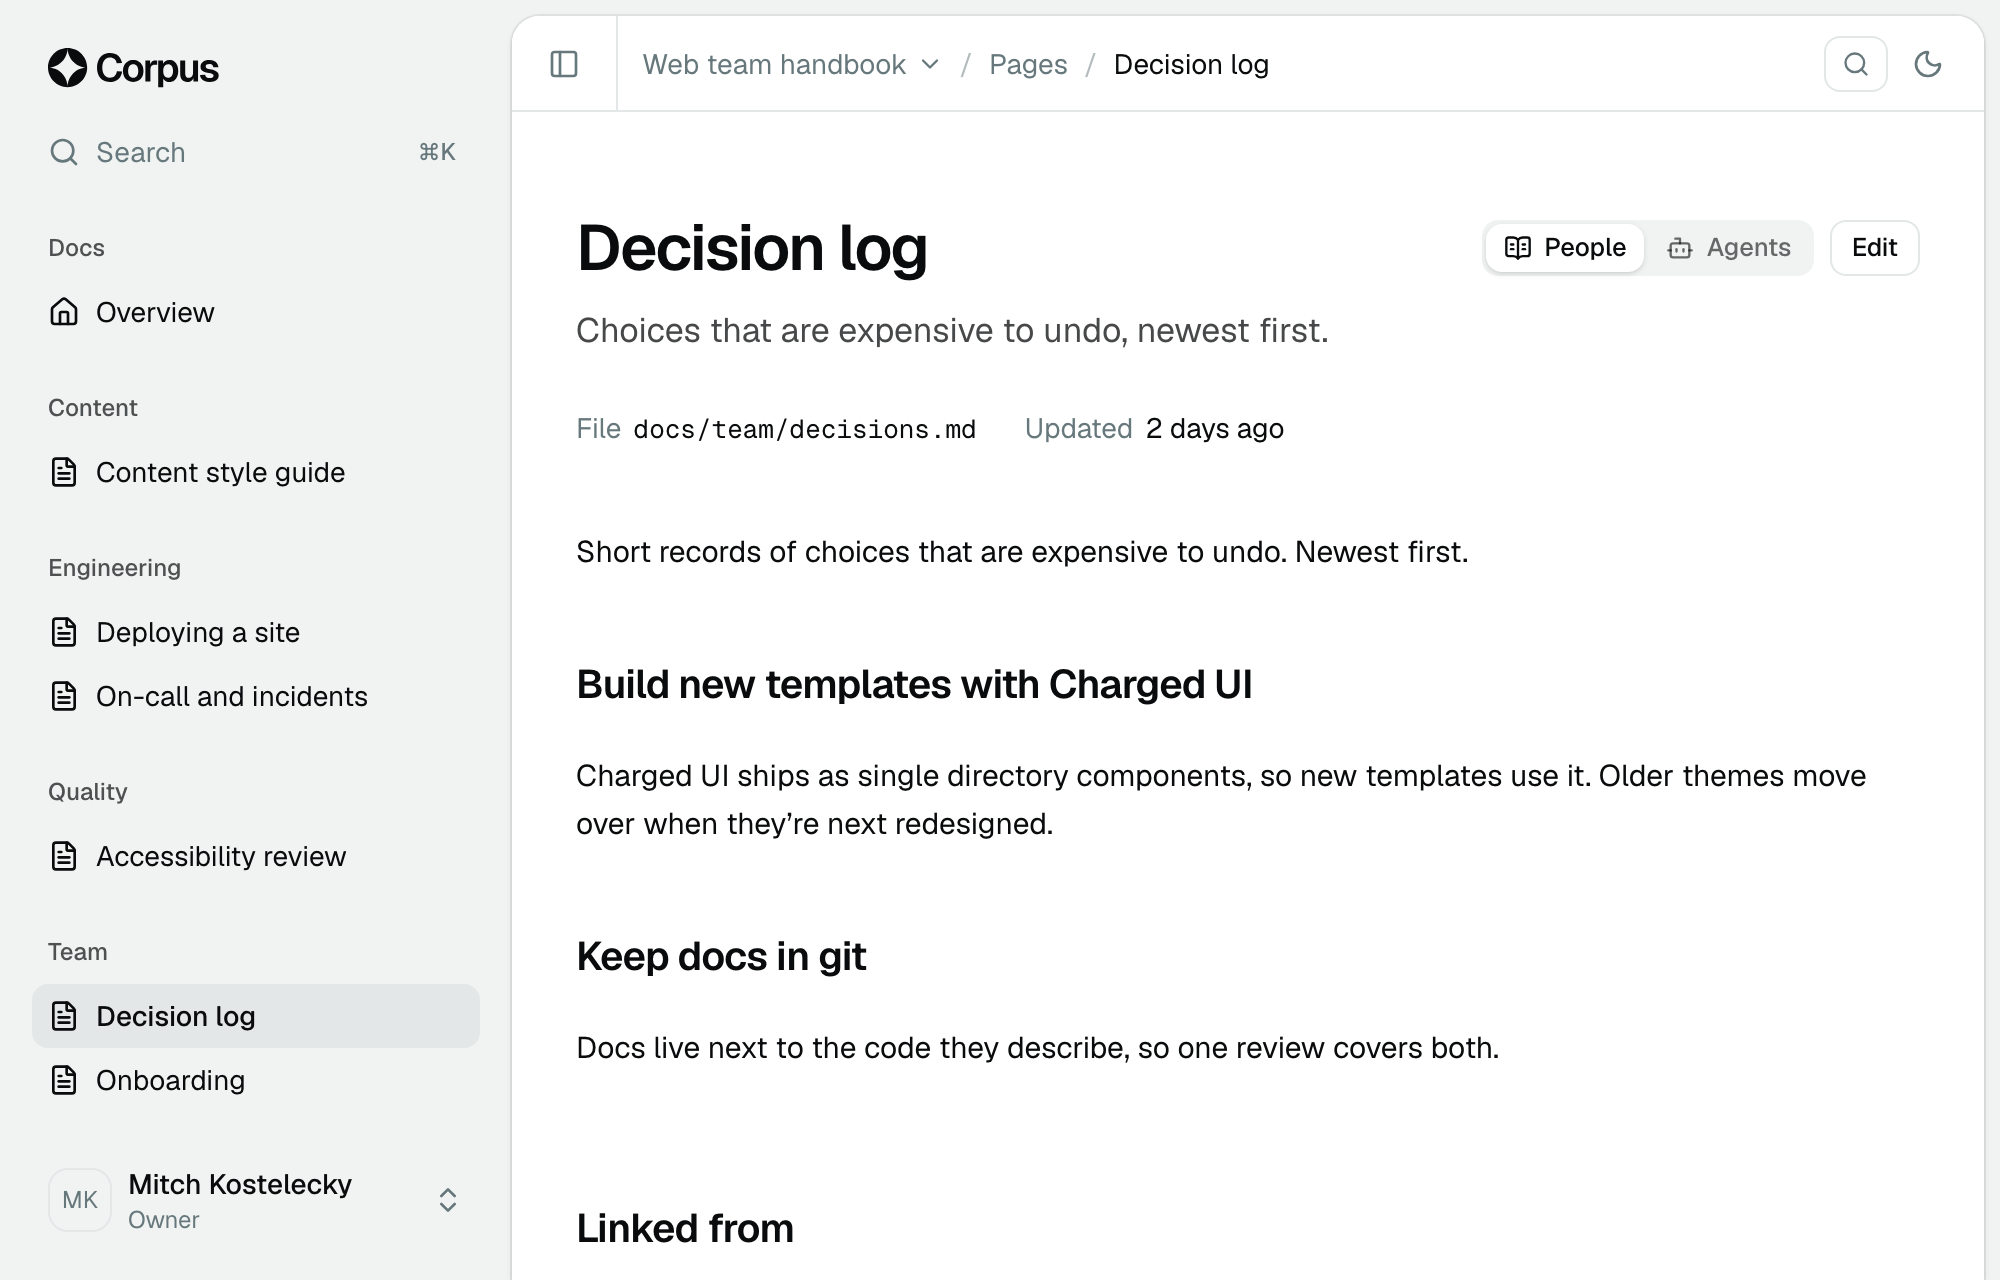
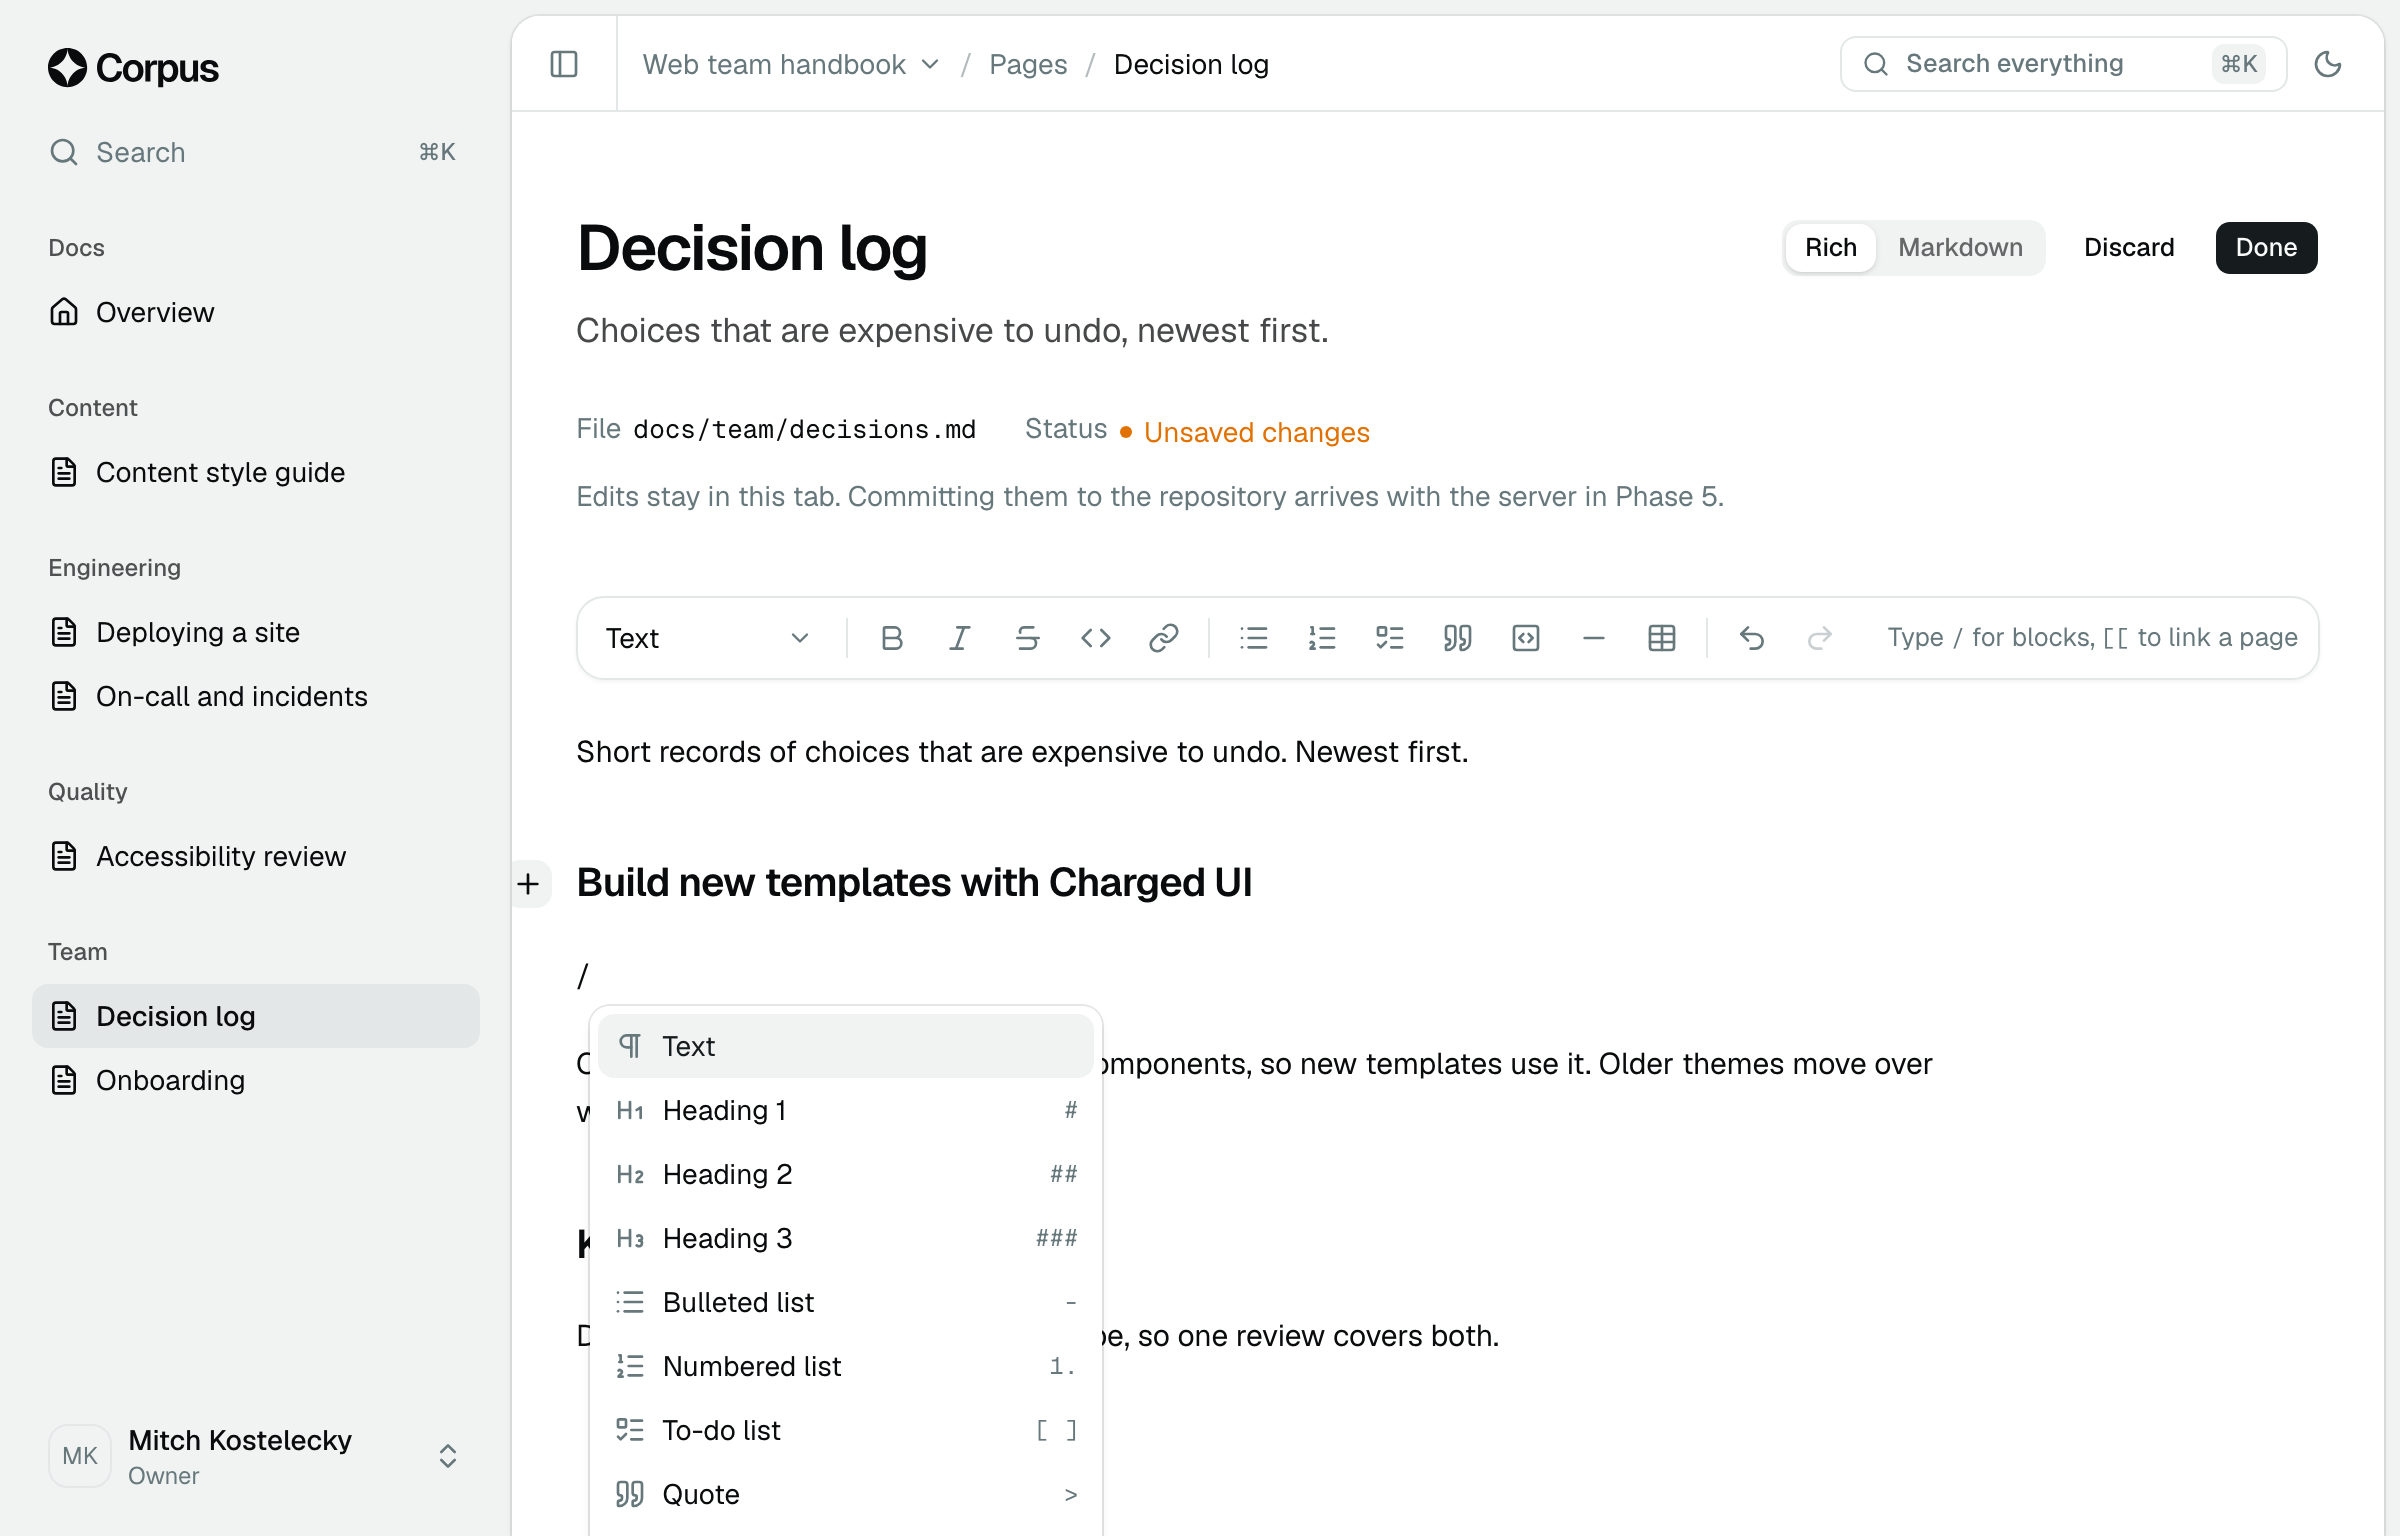
Show the editor on the deck's cover
The cover now shows the decision log being edited, with the formatting
bar and the block menu open, and traction lists the editor as built.

diff --git a/deck/src/slides.tsx b/deck/src/slides.tsx
@@ -53,7 +53,7 @@ function Cover() {
       </div>
       <Shot
         src={coverShot}
-        alt="The Corpus prototype showing a team handbook: pages in folders, open to the decision log"
+        alt="Editing the decision log in Corpus: a formatting toolbar, and the block menu opened under a heading"
         className="absolute top-[150px] bottom-0 left-[676px] w-[940px] rounded-b-none"
         imgClassName="h-full object-cover object-top-left"
       />
@@ -608,7 +608,7 @@ function Traction() {
       tone: "good",
       label: "Built",
       items: [
-        "Notebook pages in folders, as rich text or Markdown",
+        "A notebook editor: toolbar, slash menu, to-dos, page links",
         "Handbook, help center, and design system projects",
         "A support bot that cites its page, or says it doesn’t know",
         "Every page served to any AI: MCP, llms.txt, Markdown",
